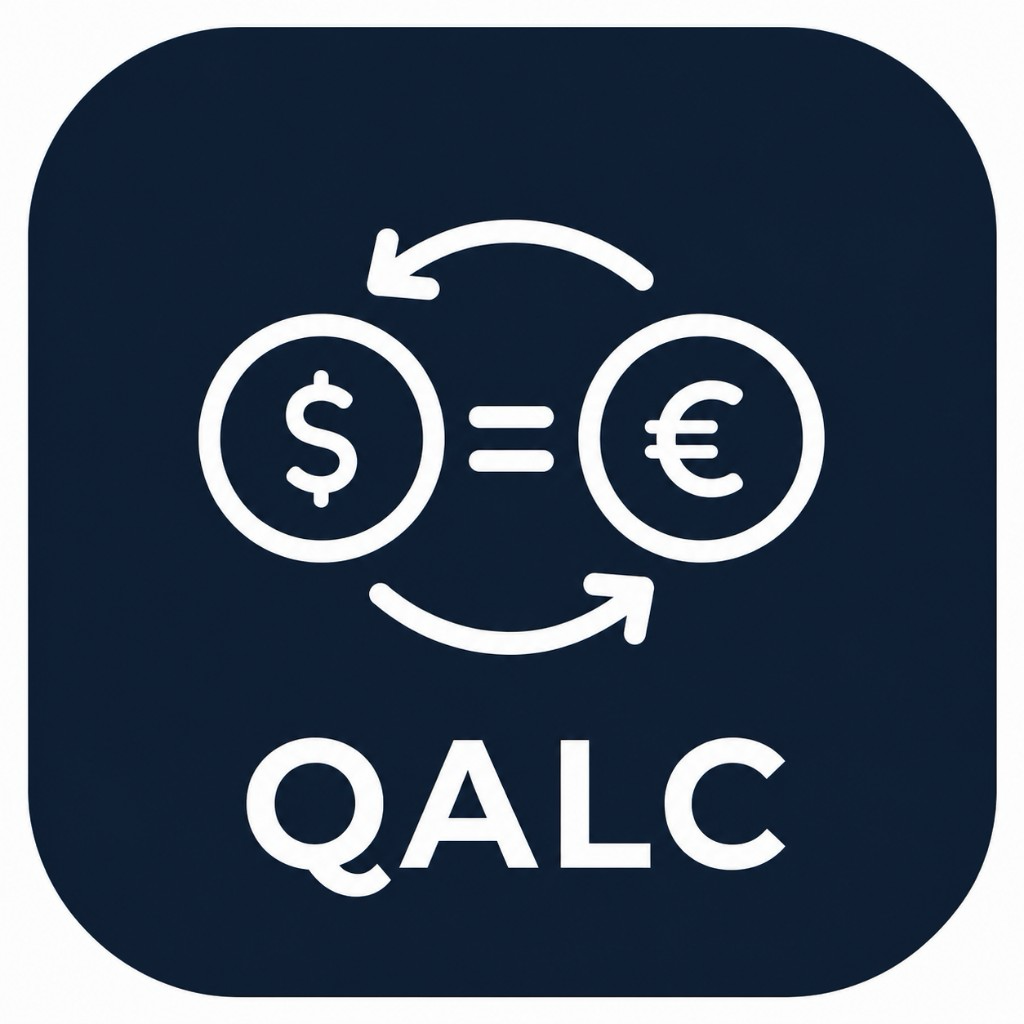
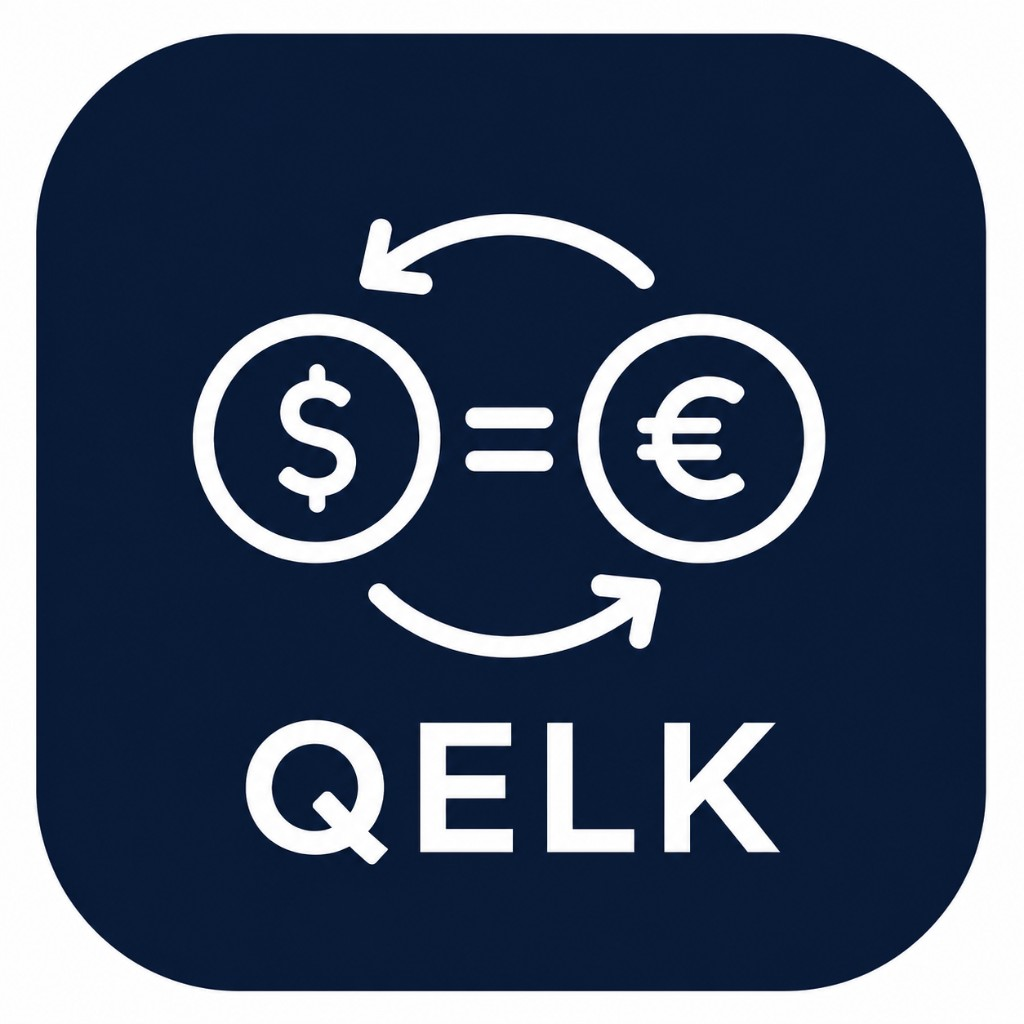
Rebrand to QELK

diff --git a/index.html b/index.html
@@ -6,12 +6,12 @@
     <meta name="google" content="notranslate" />
     <meta
       name="description"
-      content="QALC — 통화·길이·무게를 빠르고 단순하게 변환하는 웹 도구"
+      content="QELK — 통화·길이·무게를 빠르고 단순하게 변환하는 웹 도구"
     />
     <meta name="theme-color" content="#223a70" />
     <meta name="mobile-web-app-capable" content="yes" />
     <meta name="apple-mobile-web-app-capable" content="yes" />
-    <meta name="apple-mobile-web-app-title" content="QALC" />
+    <meta name="apple-mobile-web-app-title" content="QELK" />
     <meta name="apple-mobile-web-app-status-bar-style" content="default" />
 
     <link rel="icon" type="image/svg+xml" href="/favicon.svg" />
@@ -28,7 +28,7 @@
       src="https://pagead2.googlesyndication.com/pagead/js/adsbygoogle.js?client=ca-pub-4204340281878196"
       crossorigin="anonymous"
     ></script>
-    <title>QALC</title>
+    <title>QELK</title>
   </head>
   <body>
     <div id="root"></div>

diff --git a/public/privacy.html b/public/privacy.html
@@ -3,7 +3,7 @@
   <head>
     <meta charset="UTF-8" />
     <meta name="viewport" content="width=device-width, initial-scale=1.0" />
-    <title>QALC 개인정보 처리방침</title>
+    <title>QELK 개인정보 처리방침</title>
     <style>
       body {
         margin: 0 auto;
@@ -30,10 +30,10 @@
     </style>
   </head>
   <body>
-    <h1>QALC 개인정보 처리방침</h1>
+    <h1>QELK 개인정보 처리방침</h1>
     <p>시행일: 2026년 8월 19일</p>
     <p>
-      QALC는 통화·길이·무게 변환 도구입니다. 회원가입은 없으며, 핵심 기능은
+      QELK는 통화·길이·무게 변환 도구입니다. 회원가입은 없으며, 핵심 기능은
       기기에서 바로 사용할 수 있습니다.
     </p>
 

diff --git a/src/components/Header.tsx b/src/components/Header.tsx
@@ -1,12 +1,12 @@
 import { LanguageSwitcher } from './LanguageSwitcher'
-import qalcMark from '../assets/qalc-mark.png'
+import qelkMark from '../assets/qelk-mark.png'
 import './Header.css'
 
 export function Header() {
   return (
     <header className="header">
       <div className="header__side header__side--start" aria-hidden="true" />
-      <img className="header__mark" src={qalcMark} alt="QALC" />
+      <img className="header__mark" src={qelkMark} alt="QELK" />
       <div className="header__side header__side--end">
         <LanguageSwitcher />
       </div>

diff --git a/src/utils/savedItemsStorage.ts b/src/utils/savedItemsStorage.ts
@@ -1,7 +1,7 @@
 import type { CategoryId, SavedItem } from '../types'
 
-/** Separate from locale (`qalc-locale`) and rates (`qalc-exchange-rates`). */
-export const SAVED_ITEMS_STORAGE_KEY = 'qalc-saved-items'
+/** Separate from locale (`qelk-locale`) and rates (`qelk-exchange-rates`). */
+export const SAVED_ITEMS_STORAGE_KEY = 'qelk-saved-items'
 
 const CATEGORY_IDS = new Set<CategoryId>(['currency', 'length', 'weight'])
 

diff --git a/src/services/exchangeRate.ts b/src/services/exchangeRate.ts
@@ -33,7 +33,7 @@ export type ExchangeRateSnapshot = {
   source: 'live' | 'cache'
 }
 
-export const EXCHANGE_RATE_STORAGE_KEY = 'qalc-exchange-rates'
+export const EXCHANGE_RATE_STORAGE_KEY = 'qelk-exchange-rates'
 
 /** Open Access updates ~daily; refresh while app is open at this interval. */
 export const EXCHANGE_REFRESH_MS = 6 * 60 * 60 * 1000

diff --git a/src/utils/appStateStorage.ts b/src/utils/appStateStorage.ts
@@ -2,7 +2,7 @@ import { getDefaultUnitPair } from '../data/units'
 import type { LocaleCode } from '../locales'
 import type { CategoryId } from '../types'
 
-export const APP_STATE_STORAGE_KEY = 'qalc-app-state'
+export const APP_STATE_STORAGE_KEY = 'qelk-app-state'
 
 export type CategoryState = {
   fromUnitId: string

diff --git a/src/locales/index.ts b/src/locales/index.ts
@@ -11,7 +11,7 @@ export type { LocaleCode, LocaleMeta, Translation }
 
 export const DEFAULT_LOCALE: LocaleCode = 'en'
 
-export const LOCALE_STORAGE_KEY = 'qalc-locale'
+export const LOCALE_STORAGE_KEY = 'qelk-locale'
 
 export const LOCALE_TAGS: Record<LocaleCode, string> = {
   en: 'en-US',

diff --git a/capacitor.config.ts b/capacitor.config.ts
@@ -1,8 +1,8 @@
 import type { CapacitorConfig } from '@capacitor/cli'
 
 const config: CapacitorConfig = {
-  appId: 'com.qalc.app',
-  appName: 'QALC',
+  appId: 'com.qelk.app',
+  appName: 'QELK',
   webDir: 'dist',
 }
 

diff --git a/android/app/src/main/java/com/qelk/app/MainActivity.java b/android/app/src/main/java/com/qelk/app/MainActivity.java
@@ -1,4 +1,4 @@
-package com.qalc.app;
+package com.qelk.app;
 
 import com.getcapacitor.BridgeActivity;
 

diff --git a/README.md b/README.md
@@ -1,4 +1,4 @@
-# QALC
+# QELK
 
 Quick. Easy. Calculate.
 
